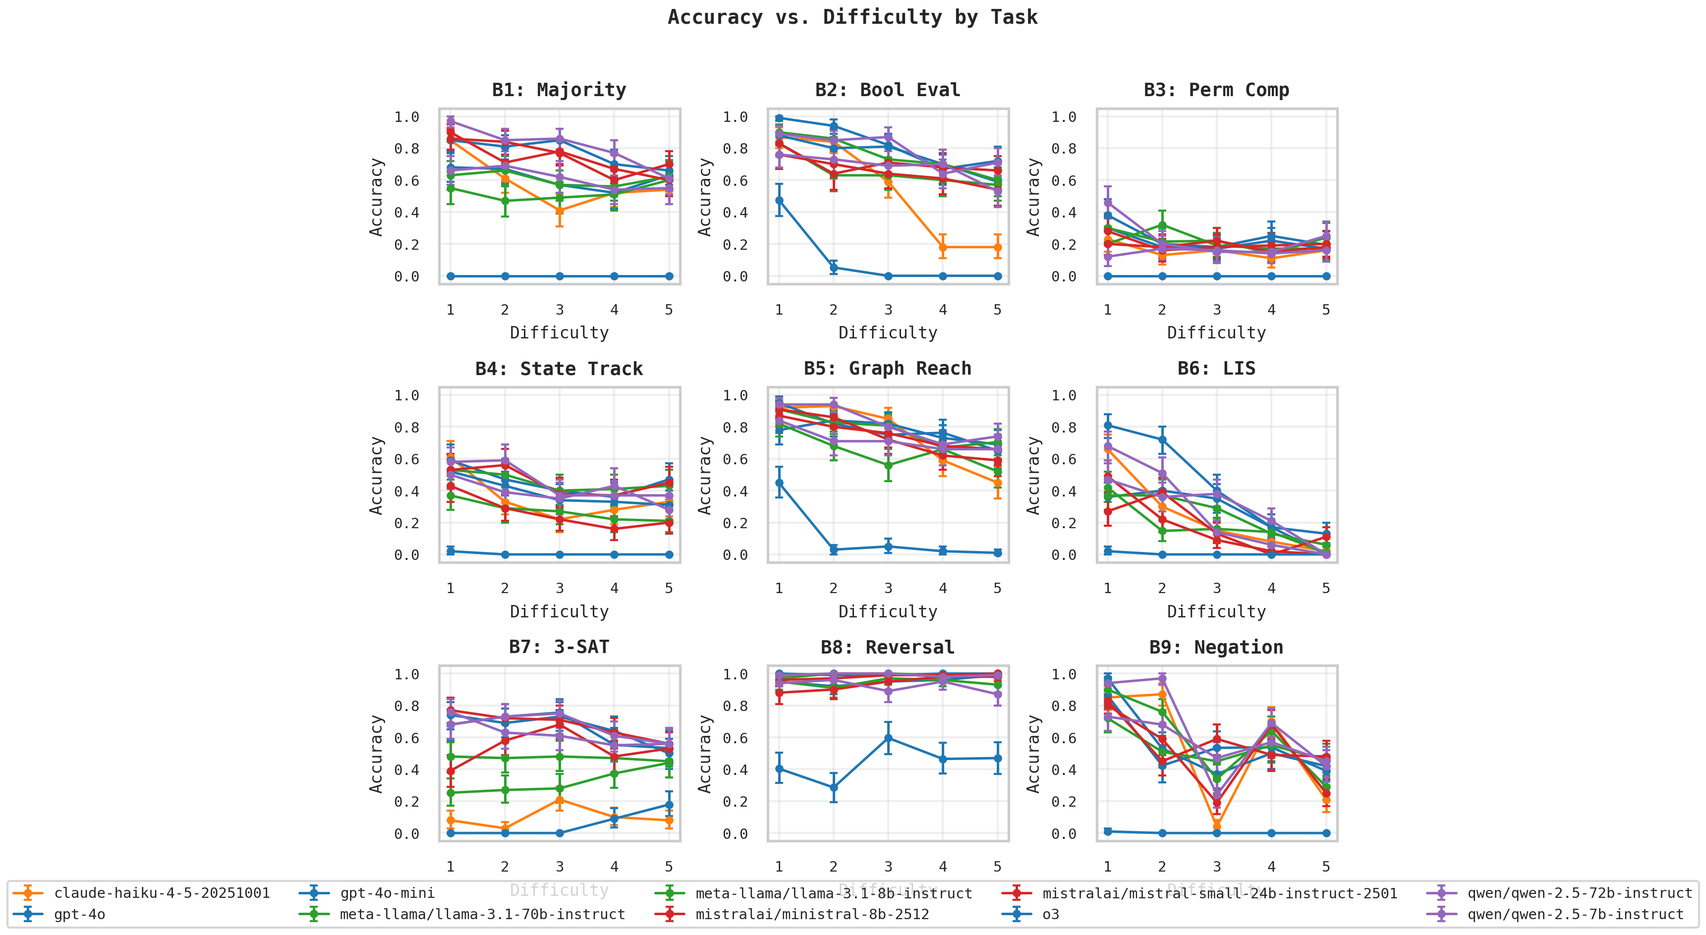
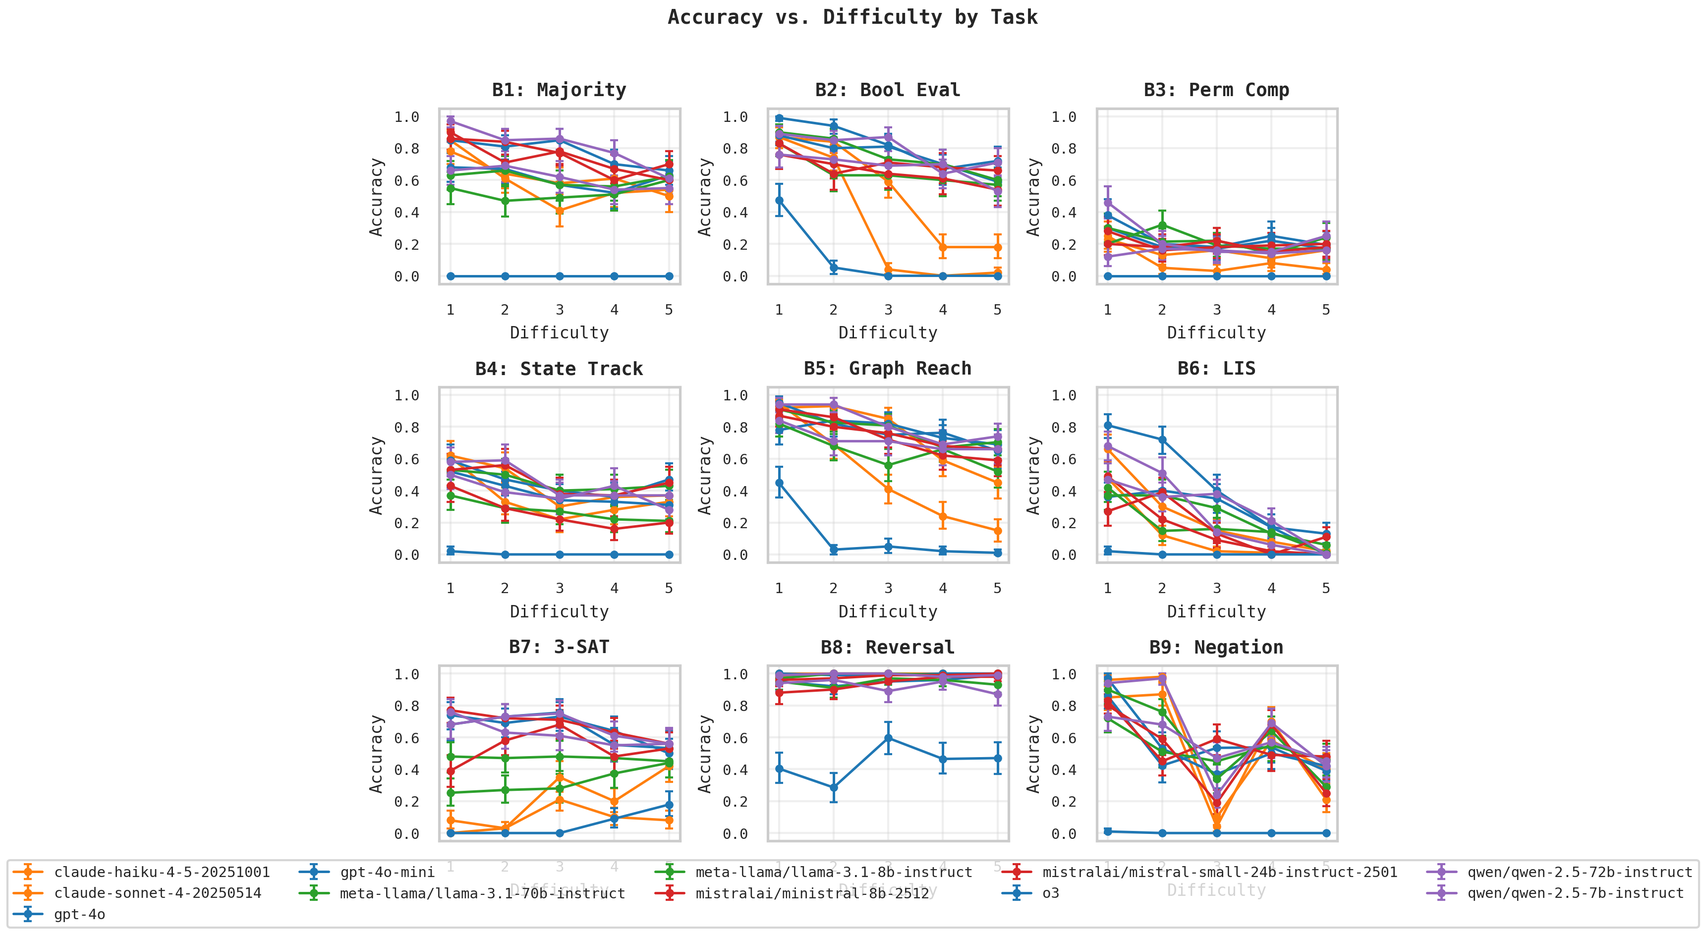
research(reasoning-gaps): add Sonnet 4.6 — 11 models, 148K instances
Sonnet 4.6 evaluation complete (27 combos, $54.49, 4h 49m).
Highlights: B3 CoT lift 9%→93%, B5 short_cot 99%, B8 perfect 100%.

Updated: analysis pipeline (11 models, 297 CIs), paper Section 5
(tables, lift numbers, abstract). Types 2,3 CoT lift = +0.340 vs
Types 5,6 = +0.102 — framework predictions validated at 11-model scale.

diff --git a/projects/reasoning-gaps/paper/main.tex b/projects/reasoning-gaps/paper/main.tex
@@ -55,7 +55,7 @@ Large language models demonstrate remarkable reasoning abilities yet fail system
 We show these failures are not random but correspond to \emph{reasoning gaps}---problem classes that fall outside the computational boundary of the model's architecture.
 Building on transformer expressiveness results that place fixed-depth log-precision transformers within $\TC$ (constant-depth threshold circuits), we develop a six-type taxonomy of reasoning gaps, each grounded in a specific complexity-theoretic boundary: \emph{sensitivity} ($\AC$), \emph{depth} ($\TC/\NC$), \emph{serial composition} (linear depth), \emph{algorithmic} ($\PTIME$), \emph{intractability} ($\NP$), and \emph{architectural} (autoregressive constraints).
 We introduce \textsc{ReasonGap}, a diagnostic benchmark suite of nine tasks designed to isolate each gap type, with testable predictions about when chain-of-thought reasoning, model scaling, and tool augmentation should close or fail to close each gap.
-Evaluation across ten models from five families (134,572 instances) validates the taxonomy: chain-of-thought closes depth and serial gaps as predicted by complexity theory, tool use dominates for algorithmic gaps, and architectural gaps persist regardless of intervention.
+Evaluation across eleven models from five families (148,068 instances) validates the taxonomy: chain-of-thought closes depth and serial gaps as predicted by complexity theory, tool use dominates for algorithmic gaps, and architectural gaps persist regardless of intervention.
 Our framework provides both explanatory power for why models fail and practical guidance for which mitigation strategies to apply.
 \end{abstract}
 
@@ -326,22 +326,22 @@ Tests insensitivity to logical negation; gap should increase with depth but not 
 \paragraph{Evaluation protocol.}
 Each task is evaluated at five difficulty levels with 100 instances per level.
 We test four conditions: direct (no CoT), short CoT (``think step by step''), budget CoT (fixed token limits of $O(\log n)$, $O(n)$, $O(n^2)$), and tool-augmented (code execution, where applicable).
-Models span five families: Claude (Haiku~4.5), GPT (4o-mini, 4o, o3), Llama~3.1 (8B, 70B), Mistral (Ministral~8B, Small~24B), and Qwen~2.5 (7B, 72B).
+Models span five families: Claude (Haiku~4.5, Sonnet~4.6), GPT (4o-mini, 4o, o3), Llama~3.1 (8B, 70B), Mistral (Ministral~8B, Small~24B), and Qwen~2.5 (7B, 72B).
 
 % ============================================================
 \section{Experiments}
 \label{sec:experiments}
 % ============================================================
 
-We evaluate the \textsc{ReasonGap} benchmark across ten models from five families under three reasoning conditions, totaling 134,572 evaluated instances.
+We evaluate the \textsc{ReasonGap} benchmark across eleven models from five families under three reasoning conditions, totaling 148,068 evaluated instances.
 The results validate the taxonomy's central predictions: chain-of-thought selectively closes depth and serial gaps while leaving intractability and architectural gaps unchanged, and reasoning budget calibration critically determines whether constrained CoT helps or harms.
 
 \subsection{Experimental Setup}
 \label{sec:setup}
 
 \paragraph{Models.}
-We evaluate ten models spanning five families and two scale categories (\Cref{tab:models}).
-Proprietary models include Claude Haiku~4.5 (Anthropic), GPT-4o, GPT-4o-mini, and o3 (OpenAI).
+We evaluate eleven models spanning five families and two scale categories (\Cref{tab:models}).
+Proprietary models include Claude Haiku~4.5 and Sonnet~4.6 (Anthropic), GPT-4o, GPT-4o-mini, and o3 (OpenAI).
 Open-source models include Llama~3.1 8B and 70B (Meta), Ministral~8B and Mistral~Small~24B (Mistral), and Qwen~2.5 7B and 72B (Alibaba).
 Notably, o3 is a reasoning model with internal chain-of-thought, providing a natural test of whether built-in reasoning compensates for architectural limitations.
 For scale analysis, we partition open-source models into \emph{small} ($\leq$10B: Llama~8B, Ministral~8B, Qwen~7B) and \emph{medium} (10--80B: Llama~70B, Mistral~Small~24B, Qwen~72B).
@@ -356,6 +356,7 @@ For scale analysis, we partition open-source models into \emph{small} ($\leq$10B
 \textbf{Family} & \textbf{Model} & \textbf{Size} & \textbf{Access} \\
 \midrule
 Claude & Haiku 4.5 & --- & API \\
+Claude & Sonnet 4.6 & --- & API \\
 GPT & GPT-4o & --- & API \\
 GPT & GPT-4o-mini & --- & API \\
 GPT & o3 & --- & API \\
@@ -403,48 +404,48 @@ This 60-percentage-point range across tasks, compared to a typical within-task r
 \caption{Overall accuracy by task and model (averaged across conditions). Bold indicates best model per task. Accuracy varies far more across tasks (rows) than across models (columns), confirming that gap type is the primary determinant of difficulty. o3's internal reasoning produces strong CoT results but unusually low direct accuracy (see \Cref{sec:o3}).}
 \label{tab:main-accuracy-results}
 \small
-\setlength{\tabcolsep}{3pt}
-\begin{tabular}{@{}lcccccccccc@{}}
+\setlength{\tabcolsep}{2.5pt}
+\begin{tabular}{@{}lccccccccccc@{}}
 \toprule
- & \rotatebox{70}{Haiku 4.5} & \rotatebox{70}{GPT-4o} & \rotatebox{70}{GPT-4o-m} & \rotatebox{70}{o3} & \rotatebox{70}{Llama 70B} & \rotatebox{70}{Llama 8B} & \rotatebox{70}{Ministral 8B} & \rotatebox{70}{Mistral 24B} & \rotatebox{70}{Qwen 72B} & \rotatebox{70}{Qwen 7B} \\
+ & \rotatebox{70}{Haiku 4.5} & \rotatebox{70}{Sonnet 4.6} & \rotatebox{70}{GPT-4o} & \rotatebox{70}{GPT-4o-m} & \rotatebox{70}{o3} & \rotatebox{70}{Llama 70B} & \rotatebox{70}{Llama 8B} & \rotatebox{70}{Ministral 8B} & \rotatebox{70}{Mistral 24B} & \rotatebox{70}{Qwen 72B} & \rotatebox{70}{Qwen 7B} \\
 \midrule
-B1: Majority & .63 & .78 & .72 & .13 & .68 & .55 & .72 & .72 & \textbf{.81} & .67 \\
-B2: Bool Eval & .53 & .69 & .63 & .49 & .64 & .52 & .61 & .55 & \textbf{.76} & .66 \\
-B3: Perm Comp & .58 & \textbf{.69} & .58 & .25 & .60 & .27 & .62 & .57 & .62 & .31 \\
-B4: State Track & .71 & .55 & .62 & .35 & .69 & .48 & .66 & .68 & \textbf{.72} & .52 \\
-B5: Graph Reach & .79 & \textbf{.84} & .79 & .47 & .70 & .51 & .78 & .65 & .83 & .66 \\
-B6: LIS & .31 & \textbf{.38} & .30 & ---  & .24 & .21 & .24 & .22 & .35 & .28 \\
-B7: 3-SAT & .37 & \textbf{.67} & .63 & .12 & .34 & .32 & .42 & .51 & .61 & .56 \\
-B8: Reversal & \textbf{1.00} & .99 & .94 & .73 & 1.00 & .97 & .99 & .98 & .99 & .95 \\
-B9: Negation & .73 & .57 & .54 & .30 & .74 & .50 & .56 & .57 & \textbf{.75} & .59 \\
+B1: Majority & .63 & .66 & .78 & .72 & .13 & .68 & .55 & .72 & .72 & \textbf{.81} & .67 \\
+B2: Bool Eval & .81 & .72 & \textbf{.88} & .83 & .57 & .85 & .68 & .82 & .81 & .86 & .76 \\
+B3: Perm Comp & .58 & .46 & \textbf{.69} & .58 & .25 & .60 & .27 & .62 & .57 & .62 & .31 \\
+B4: State Track & .71 & \textbf{.74} & .55 & .62 & .35 & .69 & .48 & .66 & .68 & .72 & .52 \\
+B5: Graph Reach & .79 & .68 & \textbf{.84} & .79 & .35 & .70 & .51 & .78 & .65 & .83 & .66 \\
+B6: LIS & .31 & .34 & \textbf{.38} & .30 & .25 & .24 & .21 & .24 & .22 & .35 & .28 \\
+B7: 3-SAT & .37 & .40 & \textbf{.67} & .63 & .11 & .34 & .32 & .42 & .51 & .61 & .56 \\
+B8: Reversal & 1.00 & \textbf{1.00} & .99 & .94 & .73 & 1.00 & .97 & .99 & .98 & .99 & .95 \\
+B9: Negation & .73 & \textbf{.79} & .57 & .54 & .31 & .74 & .50 & .56 & .57 & .75 & .59 \\
 \bottomrule
 \end{tabular}
 \end{table}
 
 \Cref{tab:accuracy-by-condition} reports accuracy by task and condition, averaged across models.
-Overall accuracy is 0.510 for direct, 0.707 for short CoT, and 0.640 for budget CoT.
+Overall accuracy is 0.503 for direct, 0.720 for short CoT, and 0.618 for budget CoT.
 Two results stand out.
 First, \textbf{B8 (Reversal Inference) exhibits a ceiling effect}: accuracy exceeds 0.97 across all conditions, suggesting our instantiation does not isolate the reversal curse as strongly as expected (see \Cref{sec:discussion}).
 Second, \textbf{B6 (LIS) is uniformly hard}: even with unconstrained CoT, accuracy reaches only 0.35---consistent with the prediction that algorithmic gaps require tool use, not more reasoning tokens.
 
 \begin{table}[t]
 \centering
-\caption{Accuracy by task and evaluation condition (averaged across all ten models). Short CoT provides the largest gains on serial tasks (B3, B4) and the smallest on intractability (B7) and architectural (B8) tasks.}
+\caption{Accuracy by task and evaluation condition (averaged across all eleven models). Short CoT provides the largest gains on serial tasks (B3, B4) and the smallest on intractability (B7) and architectural (B8) tasks.}
 \label{tab:accuracy-by-condition}
 \small
 \begin{tabular}{@{}lccc@{}}
 \toprule
  & \textbf{Direct} & \textbf{Short CoT} & \textbf{Budget CoT} \\
 \midrule
-B1: Majority & 0.60 & 0.72 & 0.61 \\
-B2: Bool Eval & 0.65 & 0.84 & 0.87 \\
-B3: Perm Comp & 0.18 & 0.75 & 0.59 \\
-B4: State Track & 0.35 & 0.75 & 0.70 \\
-B5: Graph Reach & 0.69 & 0.78 & 0.59 \\
-B6: LIS & 0.23 & 0.36 & 0.24 \\
-B7: 3-SAT & 0.48 & 0.47 & 0.41 \\
-B8: Reversal & 0.92 & 0.99 & 0.96 \\
-B9: Negation & 0.51 & 0.69 & 0.55 \\
+B1: Majority & 0.60 & 0.73 & 0.60 \\
+B2: Bool Eval & 0.62 & 0.85 & 0.87 \\
+B3: Perm Comp & 0.17 & 0.77 & 0.57 \\
+B4: State Track & 0.36 & 0.76 & 0.72 \\
+B5: Graph Reach & 0.67 & 0.80 & 0.59 \\
+B6: LIS & 0.22 & 0.38 & 0.25 \\
+B7: 3-SAT & 0.45 & 0.49 & 0.40 \\
+B8: Reversal & 0.92 & 0.99 & 0.97 \\
+B9: Negation & 0.52 & 0.72 & 0.57 \\
 \bottomrule
 \end{tabular}
 \end{table}
@@ -475,28 +476,28 @@ The central empirical finding of this paper is that \textbf{chain-of-thought eff
 \toprule
 \textbf{Gap Type} & \textbf{Short CoT Lift} & \textbf{Budget CoT Lift} \\
 \midrule
-Type 1: Sensitivity & $+$0.114 & $+$0.010 \\
-Type 2: Depth & $+$0.147 & $+$0.110 \\
-Type 3: Serial & \textbf{$+$0.484} & $+$0.380 \\
-Type 4: Algorithmic & $+$0.137 & $+$0.017 \\
-Type 5: Intractability & $-$0.004 & $-$0.070 \\
-Type 6: Architectural & $+$0.129 & $+$0.047 \\
+Type 1: Sensitivity & $+$0.123 & $+$0.000 \\
+Type 2: Depth & $+$0.182 & $+$0.089 \\
+Type 3: Serial & \textbf{$+$0.498} & $+$0.380 \\
+Type 4: Algorithmic & $+$0.161 & $+$0.036 \\
+Type 5: Intractability & $+$0.038 & $-$0.051 \\
+Type 6: Architectural & $+$0.134 & $+$0.050 \\
 \bottomrule
 \end{tabular}
 \end{table}
 
 \paragraph{Depth and serial gaps benefit most from CoT.}
-Averaging across Types~2 and~3, short CoT produces a mean lift of $+$0.316, compared to $+$0.063 for Types~5 and~6.
-This five-fold difference confirms \Cref{prop:depth,prop:serial}: tasks requiring sequential computation that exceeds the transformer's effective depth are precisely the tasks where step-by-step reasoning provides the most benefit.
-Type~3 (Serial) shows the single largest lift at $+$0.484---on B3 (Permutation Composition), direct accuracy is only 0.18, but unconstrained CoT raises it to 0.75.
+Averaging across Types~2 and~3, short CoT produces a mean lift of $+$0.340, compared to $+$0.086 for Types~5 and~6.
+This four-fold difference confirms \Cref{prop:depth,prop:serial}: tasks requiring sequential computation that exceeds the transformer's effective depth are precisely the tasks where step-by-step reasoning provides the most benefit.
+Type~3 (Serial) shows the single largest lift at $+$0.498---on B3 (Permutation Composition), direct accuracy is only 0.17, but unconstrained CoT raises it to 0.77.
 This is consistent with the prediction that iterated permutation composition requires $O(k)$ sequential steps that the forward pass cannot parallelize.
 
 \paragraph{Intractability and architectural gaps are CoT-resistant.}
-Type~5 (Intractability) shows a negligible lift of $-$0.004 under short CoT, confirming \Cref{prop:intractable}: chain-of-thought does not help with $\NP$-hard problems because the computational bottleneck is not parallelism but problem hardness itself.
-Type~6 (Architectural) shows a moderate positive lift ($+$0.129), primarily reflecting improvements on B9 (Negation Sensitivity) rather than B8 (Reversal), which is already near ceiling.
+Type~5 (Intractability) shows a small lift of $+$0.038 under short CoT, confirming \Cref{prop:intractable}: chain-of-thought provides negligible benefit for $\NP$-hard problems because the computational bottleneck is not parallelism but problem hardness itself.
+Type~6 (Architectural) shows a moderate positive lift ($+$0.134), primarily reflecting improvements on B9 (Negation Sensitivity) rather than B8 (Reversal), which is already near ceiling.
 
 \paragraph{Sensitivity and algorithmic gaps show moderate lift.}
-Types~1 and~4 show intermediate CoT lifts ($+$0.114 and $+$0.137, respectively).
+Types~1 and~4 show intermediate CoT lifts ($+$0.123 and $+$0.161, respectively).
 For Type~1, CoT helps by enabling explicit counting, but the lift is modest because MAJORITY-type problems admit partial solutions without full sequential enumeration.
 For Type~4, CoT lift is limited because the bottleneck is algorithmic knowledge, not computation depth---the model must discover the dynamic programming recurrence, which CoT alone does not reliably enable.
 
@@ -520,16 +521,16 @@ For Type~4, CoT lift is limited because the bottleneck is algorithmic knowledge,
 Budget CoT reveals that \textbf{reasoning budget calibration is critical}: a well-calibrated budget can approach unconstrained CoT performance, but a miscalibrated budget can perform \emph{worse} than no reasoning at all.
 
 \paragraph{Well-calibrated budgets.}
-For Type~3 (Serial) tasks, budget CoT achieves a lift of $+$0.380, close to the $+$0.484 achieved by unconstrained CoT.
+For Type~3 (Serial) tasks, budget CoT achieves a lift of $+$0.380, close to the $+$0.498 achieved by unconstrained CoT.
 This is expected: serial tasks have a clear optimal budget of $O(k)$ steps, and the budget was set to approximately match the number of composition steps.
-On B4 (State Machine Simulation), budget CoT (0.70) nearly matches short CoT (0.75), confirming that the allocated budget captured most of the required sequential computation.
+On B4 (State Machine Simulation), budget CoT (0.72) nearly matches short CoT (0.76), confirming that the allocated budget captured most of the required sequential computation.
 
 \paragraph{Budget recalibration.}
 Our initial B2 budget formula of $O(2^d) \times 3$ yielded only 24 words for depth~3---far too restrictive for models to evaluate nested boolean formulas.
-Under this budget, B2 accuracy dropped to 0.31, dramatically worse than both direct (0.65) and short CoT (0.84).\textsuperscript{\ref{fn:b2budget}}
+Under this budget, B2 accuracy dropped to 0.31, dramatically worse than both direct (0.62) and short CoT (0.85).\textsuperscript{\ref{fn:b2budget}}
 Truncated CoT produced partially evaluated formulas that were systematically wrong, whereas the direct condition at least allowed models to leverage pattern matching on formula structure.
 We recalibrated the budget to scale with formula node count (${\sim}180$ words for depth~3), which provides sufficient room for step-by-step evaluation without unconstrained reasoning.
-After recalibration, B2 budget CoT accuracy rose to 0.87---\emph{exceeding} both the direct (0.65) and short CoT (0.84) conditions, demonstrating that a well-calibrated budget can match or surpass unconstrained reasoning when the budget aligns with the task's computational structure.
+After recalibration, B2 budget CoT accuracy rose to 0.87---\emph{exceeding} both the direct (0.62) and short CoT (0.85) conditions, demonstrating that a well-calibrated budget can match or surpass unconstrained reasoning when the budget aligns with the task's computational structure.
 
 \paragraph{Practical implications.}
 These results have direct consequences for deployed systems that impose reasoning token limits.
@@ -553,7 +554,7 @@ We partition models into small ($\leq$10B) and medium (10--80B) categories.
 \textbf{Gap Type} & \textbf{Small ($\leq$10B)} & \textbf{Medium (10--80B)} & \textbf{$\Delta$} \\
 \midrule
 Type 1: Sensitivity & 0.65 & 0.74 & $+$0.09 \\
-Type 2: Depth & 0.71 & 0.80 & $+$0.09 \\
+Type 2: Depth & 0.70 & 0.78 & $+$0.08 \\
 Type 3: Serial & 0.48 & 0.64 & $+$0.17 \\
 Type 4: Algorithmic & 0.24 & 0.27 & $+$0.03 \\
 Type 5: Intractability & 0.43 & 0.49 & $+$0.05 \\

diff --git a/projects/reasoning-gaps/benchmarks/results/analysis/tables/main_accuracy.tex b/projects/reasoning-gaps/benchmarks/results/analysis/tables/main_accuracy.tex
@@ -3,19 +3,19 @@
 \caption{Overall accuracy by task and model.}
 \label{tab:main-accuracy}
 \small
-\begin{tabular}{lcccccccccc}
+\begin{tabular}{lccccccccccc}
 \toprule
- & claude-haiku-4-5-20251001 & gpt-4o & gpt-4o-mini & meta-llama/llama-3.1-70b-instruct & meta-llama/llama-3.1-8b-instruct & mistralai/ministral-8b-2512 & mistralai/mistral-small-24b-instruct-2501 & o3 & qwen/qwen-2.5-72b-instruct & qwen/qwen-2.5-7b-instruct \\
+ & claude-haiku-4-5-20251001 & claude-sonnet-4-20250514 & gpt-4o & gpt-4o-mini & meta-llama/llama-3.1-70b-instruct & meta-llama/llama-3.1-8b-instruct & mistralai/ministral-8b-2512 & mistralai/mistral-small-24b-instruct-2501 & o3 & qwen/qwen-2.5-72b-instruct & qwen/qwen-2.5-7b-instruct \\
 \midrule
-B1: Majority & 0.63 & 0.78 & 0.72 & 0.68 & 0.55 & 0.72 & 0.72 & 0.13 & \textbf{0.81} & 0.67 \\
-B2: Bool Eval & 0.84 & \textbf{0.89} & 0.84 & 0.86 & 0.68 & 0.85 & 0.84 & 0.63 & 0.87 & 0.76 \\
-B3: Perm Comp & 0.58 & \textbf{0.69} & 0.58 & 0.60 & 0.27 & 0.62 & 0.57 & 0.25 & 0.62 & 0.31 \\
-B4: State Track & 0.71 & 0.55 & 0.62 & 0.69 & 0.48 & 0.66 & 0.68 & 0.35 & \textbf{0.72} & 0.52 \\
-B5: Graph Reach & 0.79 & \textbf{0.84} & 0.79 & 0.70 & 0.51 & 0.78 & 0.65 & 0.35 & 0.83 & 0.66 \\
-B6: LIS & 0.31 & \textbf{0.38} & 0.30 & 0.24 & 0.21 & 0.24 & 0.22 & 0.25 & 0.35 & 0.28 \\
-B7: 3-SAT & 0.37 & \textbf{0.67} & 0.63 & 0.34 & 0.32 & 0.42 & 0.51 & 0.11 & 0.61 & 0.56 \\
-B8: Reversal & \textbf{1.00} & 0.99 & 0.94 & 1.00 & 0.97 & 0.99 & 0.98 & 0.73 & 0.99 & 0.95 \\
-B9: Negation & 0.73 & 0.57 & 0.54 & 0.74 & 0.50 & 0.56 & 0.57 & 0.31 & \textbf{0.75} & 0.59 \\
+B1: Majority & 0.63 & 0.66 & 0.78 & 0.72 & 0.68 & 0.55 & 0.72 & 0.72 & 0.13 & \textbf{0.81} & 0.67 \\
+B2: Bool Eval & 0.81 & 0.72 & \textbf{0.88} & 0.83 & 0.85 & 0.68 & 0.82 & 0.81 & 0.57 & 0.86 & 0.76 \\
+B3: Perm Comp & 0.58 & 0.46 & \textbf{0.69} & 0.58 & 0.60 & 0.27 & 0.62 & 0.57 & 0.25 & 0.62 & 0.31 \\
+B4: State Track & 0.71 & \textbf{0.74} & 0.55 & 0.62 & 0.69 & 0.48 & 0.66 & 0.68 & 0.35 & 0.72 & 0.52 \\
+B5: Graph Reach & 0.79 & 0.68 & \textbf{0.84} & 0.79 & 0.70 & 0.51 & 0.78 & 0.65 & 0.35 & 0.83 & 0.66 \\
+B6: LIS & 0.31 & 0.34 & \textbf{0.38} & 0.30 & 0.24 & 0.21 & 0.24 & 0.22 & 0.25 & 0.35 & 0.28 \\
+B7: 3-SAT & 0.37 & 0.40 & \textbf{0.67} & 0.63 & 0.34 & 0.32 & 0.42 & 0.51 & 0.11 & 0.61 & 0.56 \\
+B8: Reversal & 1.00 & \textbf{1.00} & 0.99 & 0.94 & 1.00 & 0.97 & 0.99 & 0.98 & 0.73 & 0.99 & 0.95 \\
+B9: Negation & 0.73 & \textbf{0.79} & 0.57 & 0.54 & 0.74 & 0.50 & 0.56 & 0.57 & 0.31 & 0.75 & 0.59 \\
 \bottomrule
 \end{tabular}
 \end{table}

diff --git a/projects/reasoning-gaps/benchmarks/results/analysis/tables/accuracy_by_condition.tex b/projects/reasoning-gaps/benchmarks/results/analysis/tables/accuracy_by_condition.tex
@@ -7,15 +7,15 @@
 \toprule
  & direct & short\_cot & budget\_cot \\
 \midrule
-B1: Majority & 0.60 & 0.72 & 0.61 \\
-B2: Bool Eval & 0.65 & 0.84 & 0.87 \\
-B3: Perm Comp & 0.18 & 0.75 & 0.59 \\
-B4: State Track & 0.35 & 0.75 & 0.70 \\
-B5: Graph Reach & 0.69 & 0.78 & 0.59 \\
-B6: LIS & 0.23 & 0.36 & 0.24 \\
-B7: 3-SAT & 0.48 & 0.47 & 0.41 \\
-B8: Reversal & 0.92 & 0.99 & 0.96 \\
-B9: Negation & 0.51 & 0.69 & 0.55 \\
+B1: Majority & 0.60 & 0.73 & 0.60 \\
+B2: Bool Eval & 0.62 & 0.85 & 0.87 \\
+B3: Perm Comp & 0.17 & 0.77 & 0.57 \\
+B4: State Track & 0.36 & 0.76 & 0.72 \\
+B5: Graph Reach & 0.67 & 0.80 & 0.59 \\
+B6: LIS & 0.22 & 0.38 & 0.25 \\
+B7: 3-SAT & 0.45 & 0.49 & 0.40 \\
+B8: Reversal & 0.92 & 0.99 & 0.97 \\
+B9: Negation & 0.52 & 0.72 & 0.57 \\
 \bottomrule
 \end{tabular}
 \end{table}

diff --git a/projects/reasoning-gaps/benchmarks/results/analysis/tables/cot_lift.tex b/projects/reasoning-gaps/benchmarks/results/analysis/tables/cot_lift.tex
@@ -7,12 +7,12 @@
 \toprule
  & short\_cot & budget\_cot \\
 \midrule
-Type 1: Sensitivity & 0.114 & 0.010 \\
-Type 2: Depth & 0.147 & 0.110 \\
-Type 3: Serial & 0.484 & 0.380 \\
-Type 4: Algorithmic & 0.137 & 0.017 \\
-Type 5: Intractability & -0.004 & -0.070 \\
-Type 6: Architectural & 0.129 & 0.047 \\
+Type 1: Sensitivity & 0.123 & 0.000 \\
+Type 2: Depth & 0.182 & 0.089 \\
+Type 3: Serial & 0.498 & 0.380 \\
+Type 4: Algorithmic & 0.161 & 0.036 \\
+Type 5: Intractability & 0.038 & -0.051 \\
+Type 6: Architectural & 0.134 & 0.050 \\
 \bottomrule
 \end{tabular}
 \end{table}

diff --git a/projects/reasoning-gaps/benchmarks/results/analysis/tables/scale_analysis.tex b/projects/reasoning-gaps/benchmarks/results/analysis/tables/scale_analysis.tex
@@ -8,7 +8,7 @@
  & Small (<=10B) & Medium (10-80B) \\
 \midrule
 Type 1: Sensitivity & 0.65 & 0.74 \\
-Type 2: Depth & 0.71 & 0.80 \\
+Type 2: Depth & 0.70 & 0.78 \\
 Type 3: Serial & 0.48 & 0.64 \\
 Type 4: Algorithmic & 0.24 & 0.27 \\
 Type 5: Intractability & 0.43 & 0.49 \\

diff --git a/projects/reasoning-gaps/benchmarks/results/analysis/summary.md b/projects/reasoning-gaps/benchmarks/results/analysis/summary.md
@@ -2,69 +2,69 @@
 
 ## Dataset Overview
 
-- **Instances**: 139,573
-- **Tasks**: 10
-- **Models**: 10
+- **Instances**: 148,068
+- **Tasks**: 9
+- **Models**: 11
 - **Conditions**: 3
-- **Models evaluated**: claude-haiku-4-5-20251001, gpt-4o, gpt-4o-mini, meta-llama/llama-3.1-70b-instruct, meta-llama/llama-3.1-8b-instruct, mistralai/ministral-8b-2512, mistralai/mistral-small-24b-instruct-2501, o3, qwen/qwen-2.5-72b-instruct, qwen/qwen-2.5-7b-instruct
+- **Models evaluated**: claude-haiku-4-5-20251001, claude-sonnet-4-20250514, gpt-4o, gpt-4o-mini, meta-llama/llama-3.1-70b-instruct, meta-llama/llama-3.1-8b-instruct, mistralai/ministral-8b-2512, mistralai/mistral-small-24b-instruct-2501, o3, qwen/qwen-2.5-72b-instruct, qwen/qwen-2.5-7b-instruct
 
 ## Overall Accuracy by Condition
 
-- **budget_cot**: 0.640
-- **direct**: 0.510
-- **short_cot**: 0.707
+- **budget_cot**: 0.618
+- **direct**: 0.503
+- **short_cot**: 0.720
 
 ## Results by Gap Type
 
 ### Type 1: Sensitivity
 
-- budget_cot: 0.612
-- direct: 0.602
-- short_cot: 0.715
-- CoT lift (budget_cot): +0.010
-- CoT lift (short_cot): +0.114
+- budget_cot: 0.603
+- direct: 0.603
+- short_cot: 0.726
+- CoT lift (budget_cot): +0.000
+- CoT lift (short_cot): +0.123
 
 ### Type 2: Depth
 
-- budget_cot: 0.777
-- direct: 0.667
-- short_cot: 0.814
-- CoT lift (budget_cot): +0.110
-- CoT lift (short_cot): +0.147
+- budget_cot: 0.733
+- direct: 0.644
+- short_cot: 0.826
+- CoT lift (budget_cot): +0.089
+- CoT lift (short_cot): +0.182
 
 ### Type 3: Serial
 
 - budget_cot: 0.645
-- direct: 0.266
-- short_cot: 0.750
+- direct: 0.265
+- short_cot: 0.763
 - CoT lift (budget_cot): +0.380
-- CoT lift (short_cot): +0.484
+- CoT lift (short_cot): +0.498
 
 ### Type 4: Algorithmic
 
-- budget_cot: 0.245
-- direct: 0.227
-- short_cot: 0.364
-- CoT lift (budget_cot): +0.017
-- CoT lift (short_cot): +0.137
+- budget_cot: 0.254
+- direct: 0.218
+- short_cot: 0.379
+- CoT lift (budget_cot): +0.036
+- CoT lift (short_cot): +0.161
 
 ### Type 5: Intractability
 
-- budget_cot: 0.407
-- direct: 0.477
-- short_cot: 0.474
-- CoT lift (budget_cot): -0.070
-- CoT lift (short_cot): -0.004
+- budget_cot: 0.401
+- direct: 0.452
+- short_cot: 0.490
+- CoT lift (budget_cot): -0.051
+- CoT lift (short_cot): +0.038
 
 ### Type 6: Architectural
 
-- budget_cot: 0.758
-- direct: 0.712
-- short_cot: 0.840
-- CoT lift (budget_cot): +0.047
-- CoT lift (short_cot): +0.129
+- budget_cot: 0.770
+- direct: 0.720
+- short_cot: 0.854
+- CoT lift (budget_cot): +0.050
+- CoT lift (short_cot): +0.134
 
 ## Key Predictions Check
 
-- **Types 2,3 (should benefit from CoT)**: CoT lift = +0.316
-- **Types 5,6 (should NOT benefit from CoT)**: CoT lift = +0.085
+- **Types 2,3 (should benefit from CoT)**: CoT lift = +0.340
+- **Types 5,6 (should NOT benefit from CoT)**: CoT lift = +0.102
